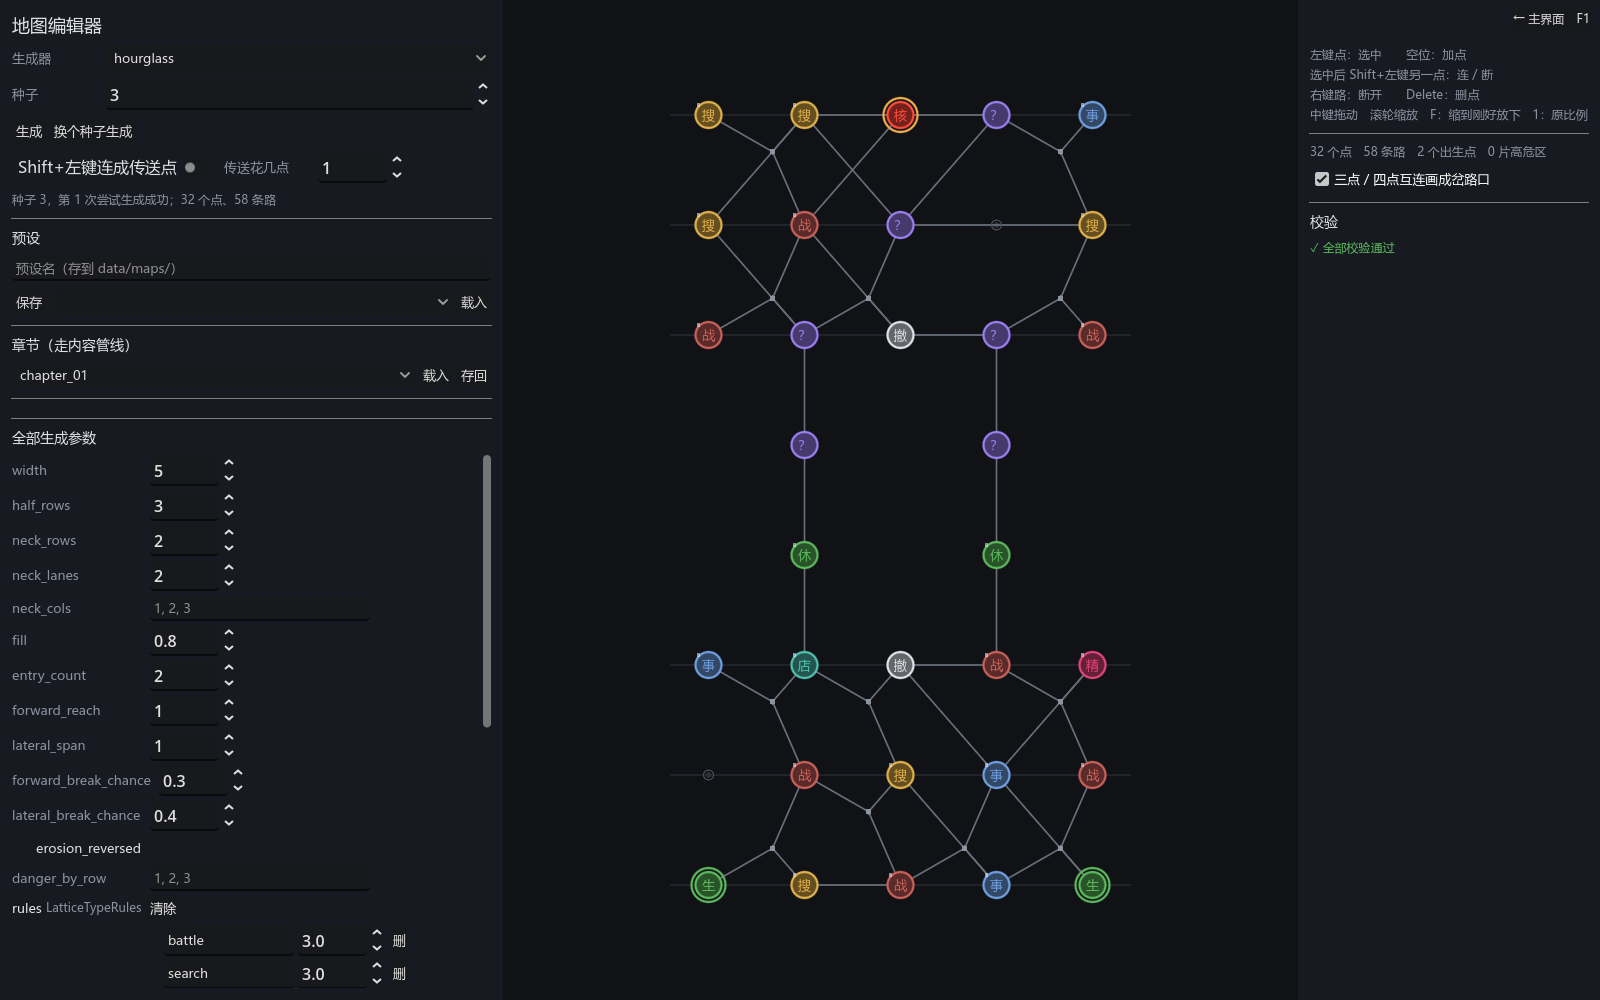
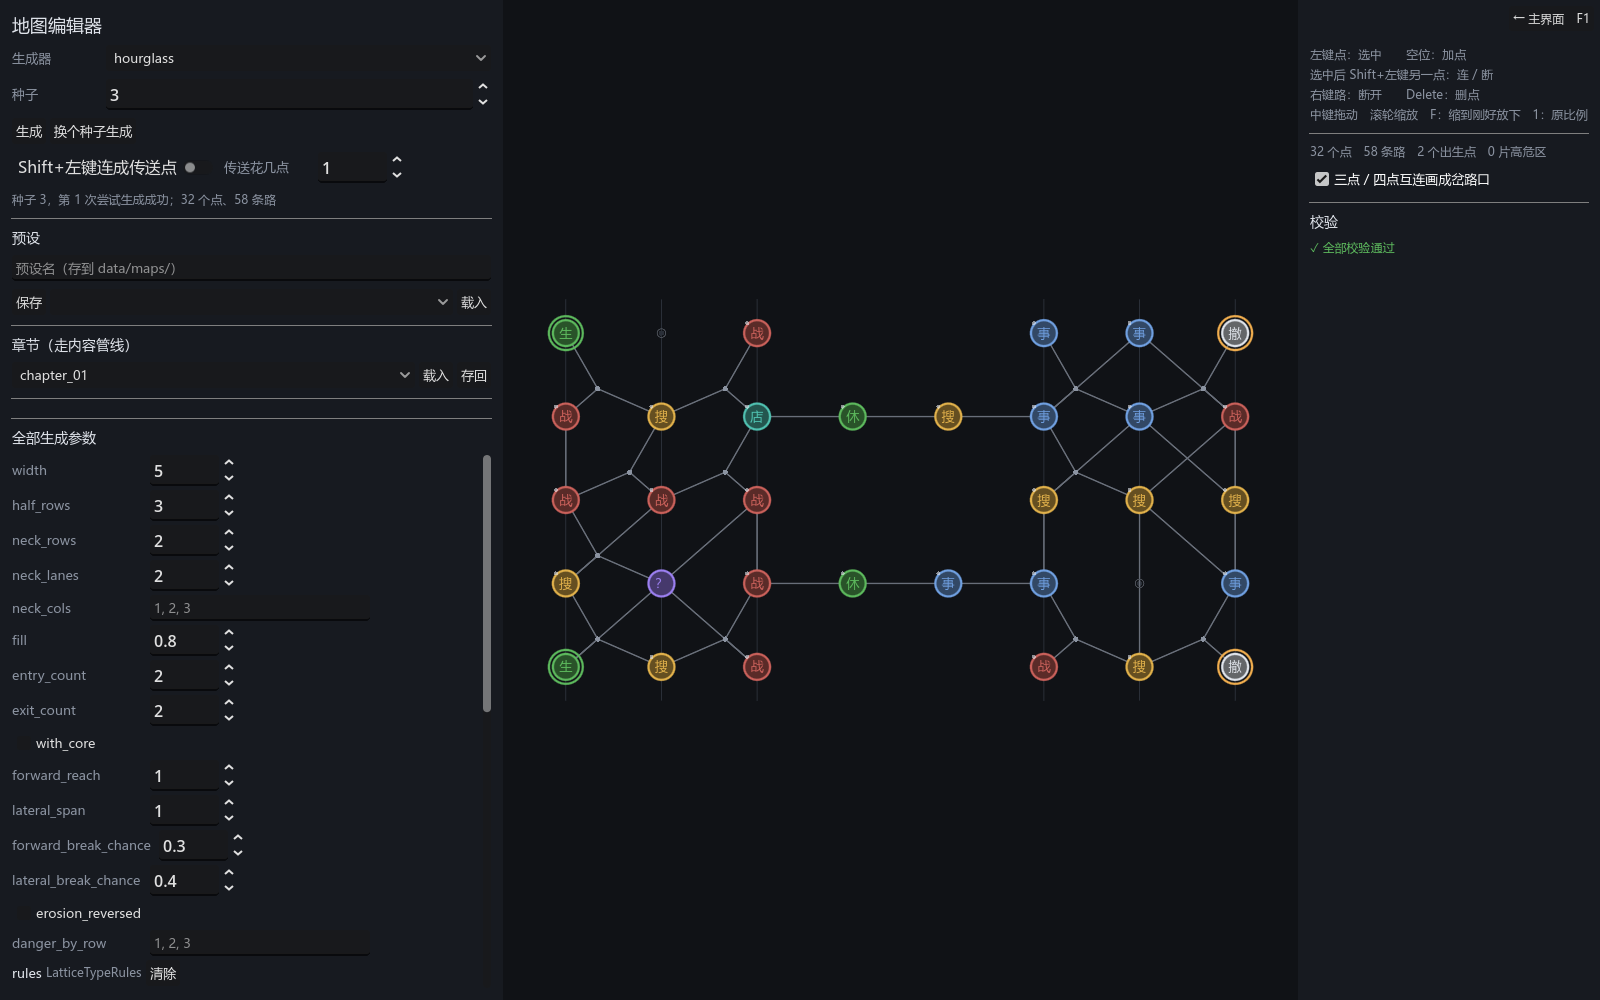
feat(map): 078 补作者定义 —— 塔：横向的层、登上一层就不能向下（one_way 默认开）；沙漏：横置（orientation，布局换轴）、撤离点在对侧一列就是终点（exit_count）、核心不是必须（with_core）、中途没有撤离点；形状的终点改成 goals（格 → 类型），校验按形状查

diff --git a/docs/reports/078-lattice-templates.md b/docs/reports/078-lattice-templates.md
@@ -9,11 +9,14 @@
 2. 等腰三角形、塔型，可能有「不回头」的设置（具体配置留空占位）；
 3. 未来在地图编辑器里可以选择用哪个模板做地图。
 
-![沙漏：上下两块长方形，中间两条平行线段](images/078-hourglass.png)
+看过第一版之后作者补了定义（同日，本报告已按它改）：
 
-![塔：等腰三角形，底层最宽、塔尖是终点](images/078-tower.png)
+- **塔**：横向的层，登上一层就不能向下 —— 同层自由横着走，纵向单向。这正是第一版 `one_way` 做的那种语义，所以它从「占位」变成塔的定义，默认开着。
+- **沙漏**：应该是**横置**的（像蝴蝶结）；这张图**核心不是必须的**（BOSS 可有可无），**撤离点在和出生点相对的那一侧**，中途没有撤离点。
 
-![开着「不回头」的塔：层间的路只许向上，箭头](images/078-tower-one-way.png)
+![沙漏：横置，左右两块长方形，中间两条平行线段；出生在左、撤离点在右](images/078-hourglass.png)
+
+![塔：等腰三角形，底层最宽、塔尖是终点；层间的路只许向上（箭头）](images/078-tower.png)
 
 ## 一、两个模板是同一种东西：分层格阵
 
@@ -44,20 +47,25 @@
 `tier` 与侵蚀分档等于层号；**单向的图每个点顺着方向都走得到终点**（`goal_from_all`）—— 回不了头的死胡同就是困死，这是合格条件不是生成规则；
 方向和「不回头」设置对得上、只许向上；类型规则（配额 / 覆盖 / 喘气处不进高危层 / 不许相邻 / 撤离点的层与间距）。传送点先摘下来，它不是路。
 
-## 二、沙漏（`hourglass`）
+## 二、沙漏（`hourglass`）：横置的蝴蝶结
 
-`HourglassMapConfig`：每半 `width` 列 × `half_rows` 层；颈部 `neck_rows` 层、`neck_lanes` 条平行线段（默认 2），`neck_cols` 指定落在哪几列
-（空 = 在宽度里匀着放，宽 5 两条 → 第 1、3 列，对称）。出生在底层、终点在顶层正中。线段层不横连、只直上直下，是**必经的咽喉**：
-测试把线段的点拿掉，终点就到不了。中途撤离点默认落在颈部两头那两层（咽喉前后各一个出口）。
+`HourglassMapConfig`：每半 `width` 格宽 × `half_rows` 层；颈部 `neck_rows` 层、`neck_lanes` 条平行线段（默认 2），`neck_cols` 指定落在哪几格
+（空 = 在宽度里匀着放，宽 5 两条 → 第 1、3 格，对称）。**横置**：数据里「层」还是 row（离出生那一侧几步），画的时候从左往右排（`LatticeShape.orientation = horizontal`，
+布局按它换轴），出生在最左一列。线段层不横连、只直进直出，是**必经的咽喉**：测试把线段的点拿掉，对侧就到不了。
 
-## 三、塔（`tower`）
+**对侧是终点。** `exit_count` 个撤离点匀着放在最右一列（默认两个、在两端），它们就是 `goal_ids`；**核心不是必须的**：`with_core = false` 默认没有，
+开了在对侧正中放一个核心（撞上撤离点就顶掉它）。**中途没有撤离点**（`rules.extract_rows` 默认空）；作者要在咽喉前后放，`neck_end_rows()` 给出那两层，填进去就行。
+这带来一条通用的改动：形状的终点不再是「一个核心」，而是 `LatticeShape.goals`（最后一层的 格 → 类型），塔的终点是 `{塔尖: core}`；
+校验按形状说的类型查终点，对侧的撤离点不算「中途撤离点」（不受层与间距的规则管）。
+
+## 三、塔（`tower`）：登上一层就不能向下
 
 `TowerMapConfig`：底层 `base_width` 列，每上一层两边各收 `shrink_per_row` 列（等腰），`floors` = 0 时收到 1 列为止（默认 7 / 5 / 3 / 1），
-指定层数时收到 1 列之后一直 1 列。塔尖那一层只有终点。中途撤离点默认在正中那一层。
+指定层数时收到 1 列之后一直 1 列。塔尖那一层只有终点（核心）。中途撤离点默认在正中那一层。
 
-**「不回头」（占位）**：作者说语义还没定。现在做了最便宜的一种 —— `one_way = true` 时层与层之间的路是单向的（`MapEdge.directed`，
-从 `one_way_from_floor` 层起），同层横着走照旧；`MapNavigator` / `MapTravel` 早就认单向边，不用改。回不去的楼层怎么侵蚀、撤离点怎么放、
-是不是要连横边也限制，等作者定了再补。校验守着：向下的单向路、方向和设置对不上、有点困住，都红。
+**横向的层，纵向单向**（作者定的塔的规则）：`one_way` 默认开着 —— 层与层之间的路是单向的（`MapEdge.directed`，从 `one_way_from_floor` 层起），
+同层自由横着走；`MapNavigator` / `MapTravel` 早就认单向边，不用改。关掉就是一座能上下的塔。校验守着：向下的单向路、方向和设置对不上、有点困住（顺着方向到不了塔尖），都红。
+回不去的楼层怎么侵蚀、撤离点怎么放，还没有作者的话，先按通用的做（侵蚀分档 = 层号，中途撤离点按层）。
 
 ## 四、编辑器里可选
 
@@ -70,16 +78,16 @@
 
 ## 五、测试
 
-新套件 `tests/test_lattice_maps.gd`（四组，8432 项断言 / 54 个套件全过）：
-沙漏的层数 / 线段列 / 线段层不横连只直上 / 两头全填 / 出生与终点 / 咽喉必经 / 分档 / 24 个种子过校验且平均尝试少于 3 次 / 同种子同图 / 反向侵蚀 / 指定线段列 / 配置错直说；
-塔的宽度序列 / 居中 / 塔尖唯一 / 单向的方向与「上去了回不来」/ 每个点都到得了塔尖 / 校验对翻向的路与困住的点都红 / 从第 2 层起才单向 / 指定层数 / 不收窄报错；
+新套件 `tests/test_lattice_maps.gd`（四组，8440 项断言 / 54 个套件全过）：
+沙漏的层数 / 线段格 / 线段层不横连只直进直出 / 两头全填 / 出生在左、对侧的撤离点是终点、默认没有核心也没有中途撤离点、要核心时对侧正中多一个 / 咽喉必经 / 分档 / 24 个种子过校验且平均尝试少于 3 次 / 同种子同图 / 反向侵蚀 / 指定线段格 / 配置错直说；
+塔的宽度序列 / 居中 / 塔尖唯一 / 默认层间单向、关掉就不 / 「上去了回不来」/ 每个点都到得了塔尖 / 校验对翻向的路与困住的点都红 / 从第 2 层起才单向 / 指定层数 / 不收窄报错；
 类型规则的撤离点层与数量 / 每层配额 / 手改就红（撤离点放错层、线段间连横边）/ 按层的危险与喘气处；
-布局登记、位置两两不同、空格子数、存档往返；**正式的一局在沙漏与单向的塔上开、定内容、走、回不了头**。
+布局登记、沙漏横着画（出生在左）、塔竖着画（出生在底）、位置两两不同、空格子数、存档往返；**正式的一局在沙漏与塔上开、定内容、走、塔上回不了头**。
 已有的注册表覆盖测试自动把两个新生成器和布局都跑了一遍。
 
 ## 六、留着的
 
-- 「不回头」只做了单向边；侵蚀 / 撤离点 / 横边在不回头下的语义等作者定。
+- 塔的「不回头」之下侵蚀与撤离点要不要另有规矩，等作者定；现在按通用的（侵蚀分档 = 层号，中途撤离点按层）。
 - 格阵没有高危区的「生长」，只有按层的危险等级；要片状高危区得另写（或者手绘）。
 - 格阵没有传送点的自动生成（编辑器手连照旧能用，移动与校验都认）。
 - 没有规模模板（`MapScaleProfile` 是环形图的）；格阵的规模就是几层几列，直接在配置里。

diff --git a/docs/status.md b/docs/status.md
@@ -1,6 +1,6 @@
 # 现状总览
 
-> 2026-09-24 ｜ `main`（M6 之后，058 / 059 实施中）｜ 架构文档 v1.75 ｜ 这是一份**活文档**：每完成一个里程碑更新一次，历史看 `docs/reports/`
+> 2026-09-24 ｜ `main`（M6 之后，058 / 059 实施中）｜ 架构文档 v1.76 ｜ 这是一份**活文档**：每完成一个里程碑更新一次，历史看 `docs/reports/`
 
 ## 一句话
 
@@ -26,7 +26,7 @@
 | 事件编辑器 | 完成 | 064 | 写文字、导入配图、拼选项（条件 / 后果下拉来自注册表）、预览照事件屏画、挂进节点规则；存盘 = JSON + .tres；按性价比做在项目里而不是独立 exe |
 | 069 进阶难度与猎手 | 完成 | 069（设想）、070～075 | 1 难度骨架 ✅（070）→ 2 猎手核心 ✅（071：`HunterDef` 一个等级一份、行动逻辑与战败后果构件、领地、开打前事件屏「迎战 / 逃跑」、探索度现造、掉落倍数、存档、地图标记）→ 3 角色技能接口 ✅（072：`CharacterDef.skills`，侦察 / 潜行 / 逃跑三个构件进 RunContext）→ 4 校准工具 ✅（073）→ 段位与专属池 ✅（074）→ 5 侵蚀本体 ✅（075：逐层向内、必须预警、效果构件四道门）|
 | 第 7 阶段 侵蚀 | 完成 | 075 | 某档难度开的机制：`ErosionField` 逐层向内、必须预警、绝不封路；效果是构件，开关 / 起始层 / 仅终局 / 概率都在数据里 |
-| 第 8 阶段 内容扩充 | **进行中** | 076、077、078 | 规划：8-1 传送点 ✅ → 8-3 事件构件 ✅（077：五种条件、五种后果含传送 / 耗时 / 改类型，休息 / 商店默认事件）→ 8-2 沙漏与塔两个格阵模板 ✅（078：编辑器可选，「不回头」占位）→ 8-4 道具与敌人 → 8-5 局外成长（仓库怎么花、解锁）；第二章的内容文件等作者定 |
+| 第 8 阶段 内容扩充 | **进行中** | 076、077、078 | 规划：8-1 传送点 ✅ → 8-3 事件构件 ✅（077：五种条件、五种后果含传送 / 耗时 / 改类型，休息 / 商店默认事件）→ 8-2 沙漏与塔两个格阵模板 ✅（078：编辑器可选；塔登上一层不能向下，沙漏横置、撤离点在对侧、核心不是必须）→ 8-4 道具与敌人 → 8-5 局外成长（仓库怎么花、解锁）；第二章的内容文件等作者定 |
 
 ## 代码地图（339 个脚本，core 约 2.0 万行）
 

diff --git a/docs/reports/README.md b/docs/reports/README.md
@@ -98,4 +98,4 @@
 | 075 | [侵蚀本体：逐层向内、必须预警、绝不封路；效果是构件，四道门都在数据里](075-erosion.md) | 069 第 5 步 = 第 7 阶段 | 完成 |
 | 076 | [第 8 阶段的规划，与 8-1 传送点](076-phase8-plan-and-portals.md) | 第 8 阶段 | 8-1 完成 |
 | 077 | [8-3 事件构件：条件看一局的状态，后果能挪人、等时间、改点、拿东西；休息 / 商店点的默认事件](077-event-constructs.md) | 第 8 阶段 8-3 | 完成 |
-| 078 | [8-2 第二章的两个底层模板：沙漏与塔（分层格阵），编辑器里可选](078-lattice-templates.md) | 第 8 阶段 8-2 | 完成（「不回头」语义等作者） |
+| 078 | [8-2 第二章的两个底层模板：沙漏与塔（分层格阵），编辑器里可选](078-lattice-templates.md) | 第 8 阶段 8-2 | 完成（含作者第二轮定义） |
